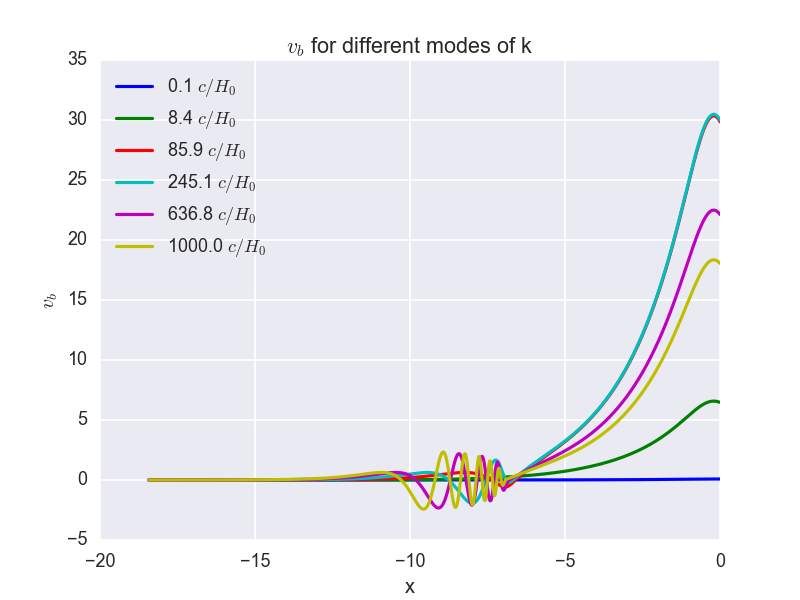
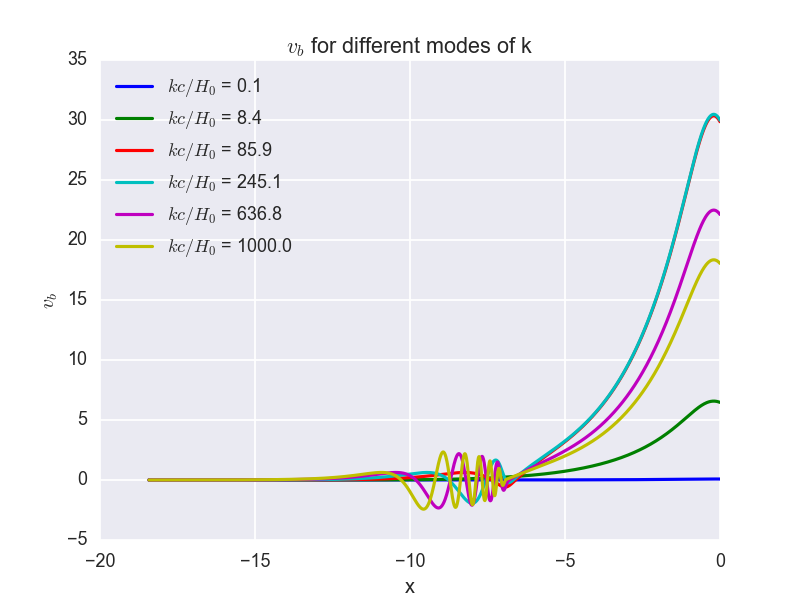
Changed legends on plots, and replotted

Changed region(s): [[0.1875, 0.24, 0.375, 0.42], [0.1875, 0.12, 0.3438, 0.21]]

diff --git a/milestone3/analysis/milestone3.py b/milestone3/analysis/milestone3.py
@@ -1,9 +1,9 @@
 import numpy as np
 import matplotlib.pyplot as plt
-#import seaborn as sns
+import seaborn as sns
 
-#sns.set_style("darkgrid")
-#sns.set_context("talk")
+sns.set_style("darkgrid")
+sns.set_context("talk")
 
 def read_file(name):
     y = []
@@ -20,9 +20,9 @@ def read_file(name):
 def plot_quantity(y,x,k,nb_modes,title,xlab,ylab,name="",save=False,log_axis=False):
     for i in range(nb_modes):
         if log_axis:
-            plt.semilogy(x,y[i],label=r"%.1f $c /H_0$"%k[i])    
+            plt.semilogy(x,y[i],label=r"$kc /H_0$ = %.1f"%k[i])    
         else:
-            plt.plot(x,y[i],label=r"%.1f $c /H_0$"%k[i])
+            plt.plot(x,y[i],label=r"$kc /H_0$ = %.1f"%k[i])
 
     plt.title(title)
     plt.xlabel(xlab)
@@ -88,7 +88,3 @@ if __name__ == "__main__":
     plot_quantity(v_b,x,k,nb_modes,r"$v_b$ for different modes of k","x",r"$v_b$")
 
     plot_quantity(theta[:,0],x,k,nb_modes,r"$\Theta_0$ for different modes of k","x",r"$\Theta_0$")
-    plot_quantity(theta[:,1],x,k,nb_modes,r"$\Theta_1$ for different modes of k","x",r"$\Theta_1$")
-
-
-
